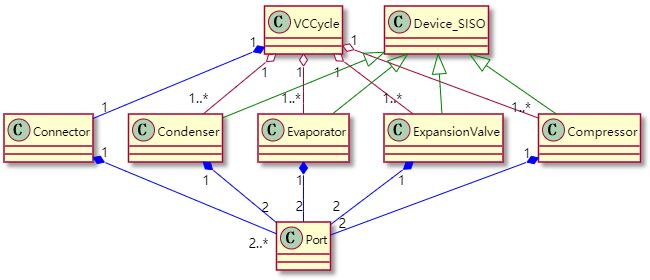
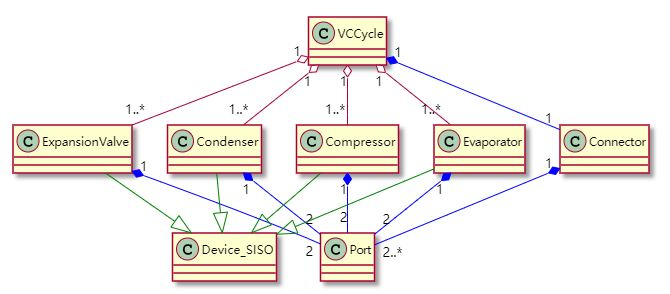
update diagrams

diff --git a/doc/PlantUML_Class_VCCE.md b/doc/PlantUML_Class_VCCE.md
@@ -185,19 +185,19 @@ Device_SISO  <|-- ExpansionValve
 VCCycle "1" *-[#blue]- "1" Connector 
 VCCycle "1" o-- "1..*" Compressor 
 VCCycle "1" o-- "1..*" Condenser
-VCCycle "1" o-- "1..*" Evaporator
 VCCycle "1" o-- "1..*" ExpansionValve
+VCCycle "1" o-- "1..*" Evaporator
 
 Connector "1" *-[#blue]- "2..*" Port
 Compressor "1" *-[#blue]- "2" Port
+Condenser "1" *-[#blue]- "2" Port
 ExpansionValve "1" *-[#blue]- "2" Port
 Evaporator "1" *-[#blue]- "2" Port
-Condenser "1" *-[#blue]- "2" Port
 
-Device_SISO <|-[#green]- Compressor   
-Device_SISO <|-[#green]- Condenser    
-Device_SISO <|-[#green]-  Evaporator  
-Device_SISO <|-[#green]-ExpansionValve    
+Device_SISO <|-up[#green]- Compressor   
+Device_SISO <|-up[#green]- Condenser    
+Device_SISO <|-up[#green]-ExpansionValve    
+Device_SISO <|-up[#green]- Evaporator  
 ```
 ![vccycle_relations_all](./uml/img/vccycle_relations_all.jpg)
 

diff --git a/doc/ClassDiagram_VCCE.md b/doc/ClassDiagram_VCCE.md
@@ -8,7 +8,7 @@
     - [Instance Relation of Components and Port](#instance-relation-of-components-and-port)
   - [Class VCCycle](#class-vccycle)
     - [Class VCCycle and Instance Relations](#class-vccycle-and-instance-relations)
-    - [Class and Instance Relations of Class VCCycle](#class-and-instance-relations-of-class-vccycle)
+    - [Class and Instance Relations of Classes](#class-and-instance-relations-of-classes)
     - [Flowchart of VC Cycle Analysis](#flowchart-of-vc-cycle-analysis)
 
 <!-- /TOC -->
@@ -36,7 +36,7 @@
 
 ![vccycle_relation_instance](./uml/img/vccycle_relation_instance.jpg)
 
-### Class and Instance Relations of Class VCCycle
+### Class and Instance Relations of Classes
 
 ![vccycle_relations_all](./uml/img/vccycle_relations_all.jpg)
 
